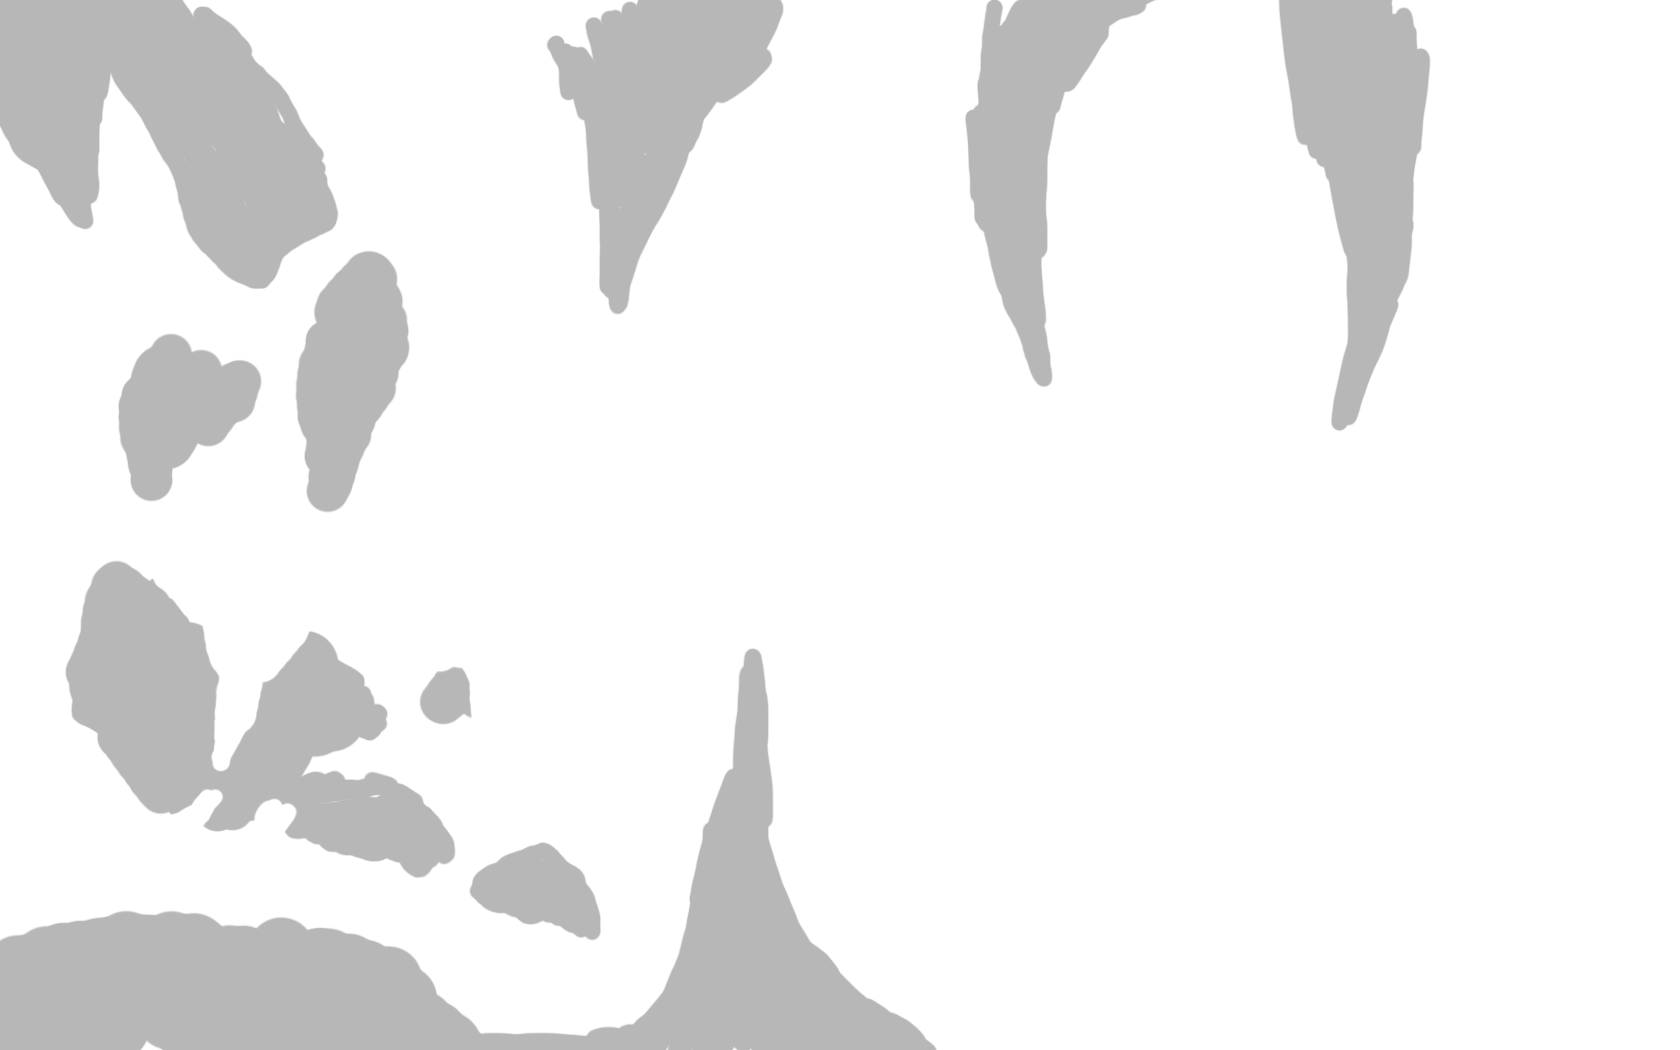
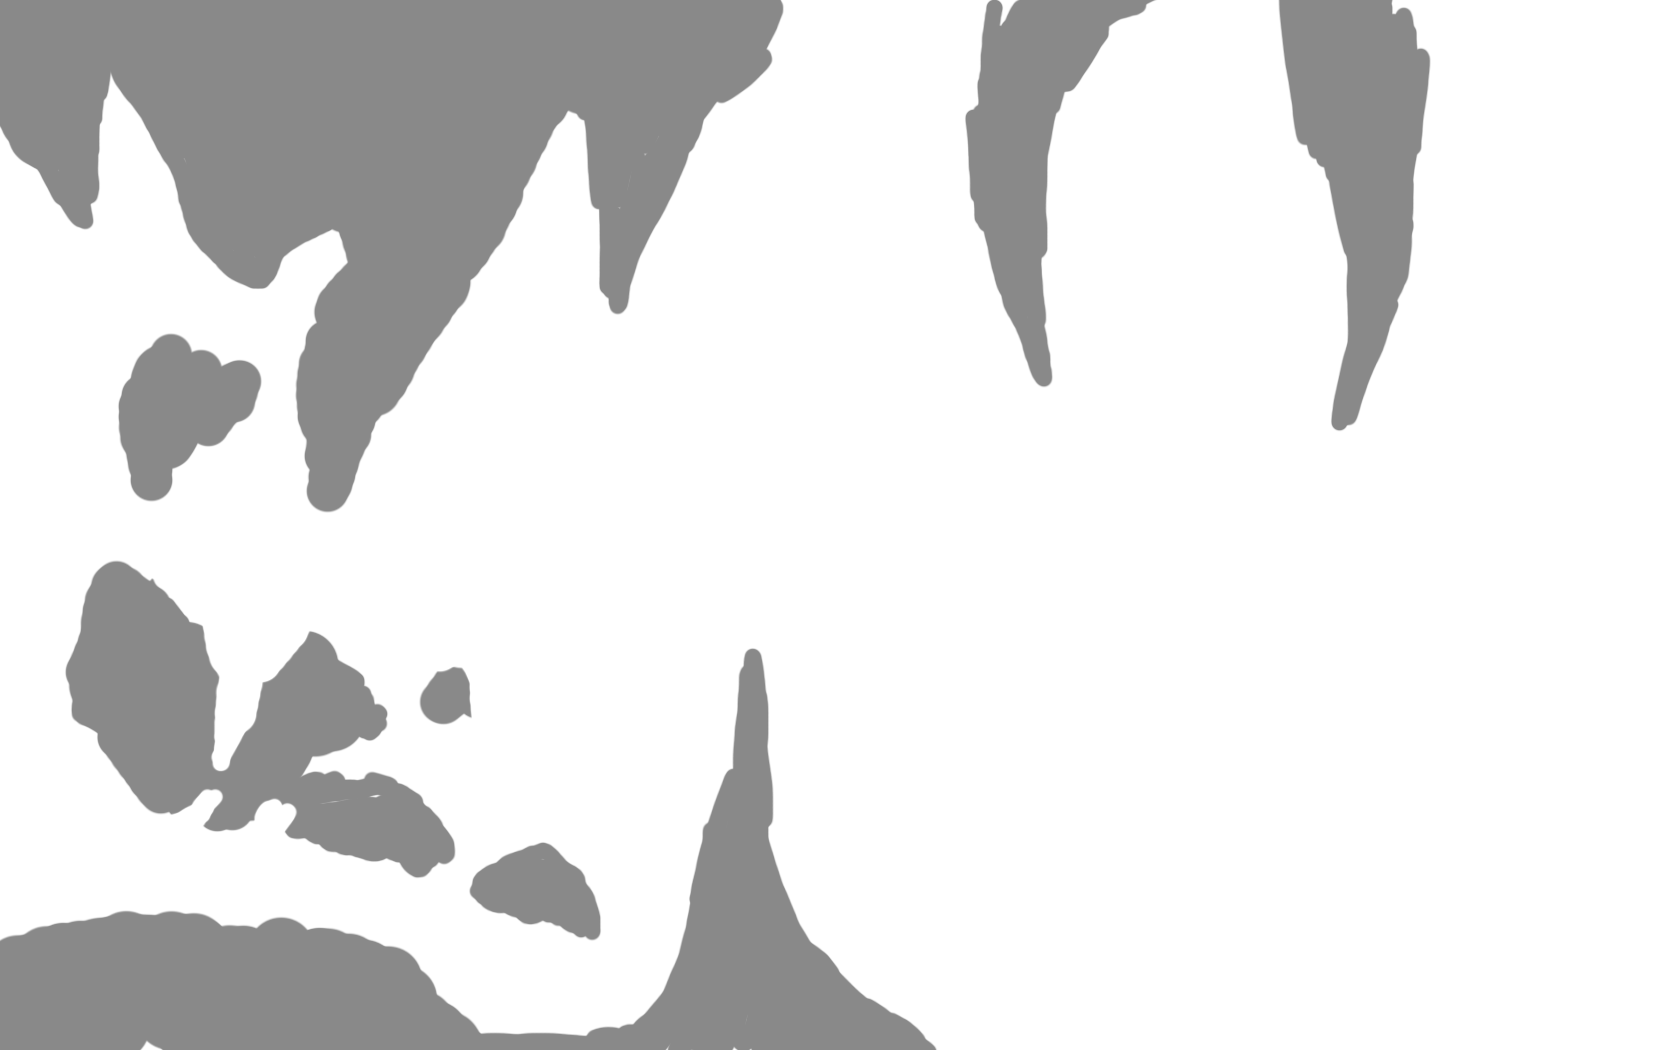
Improved rendering.

diff --git a/Loderpit/Loderpit/EntityFactory.cs b/Loderpit/Loderpit/EntityFactory.cs
@@ -853,7 +853,7 @@ namespace Loderpit
             {
                 body.CollisionCategories = (ushort)CollisionCategory.Terrain;
                 EntityManager.addComponent(entityId, new GroundBodyComponent(entityId, body));
-                EntityManager.addComponent(entityId, createColorPrimitiveRenderComponent(entityId, body, new Color(64, 37, 10, 255)));
+                EntityManager.addComponent(entityId, createColorPrimitiveRenderComponent(entityId, body, new Color(180, 180, 180, 255)));
             }
 
             // Ceiling component
@@ -861,7 +861,7 @@ namespace Loderpit
             {
                 body.CollisionCategories = (ushort)CollisionCategory.Terrain;
                 EntityManager.addComponent(entityId, new CeilingComponent(entityId, body));
-                EntityManager.addComponent(entityId, createColorPrimitiveRenderComponent(entityId, body, new Color(64, 37, 10, 255)));
+                EntityManager.addComponent(entityId, createColorPrimitiveRenderComponent(entityId, body, new Color(180, 180, 180, 255)));
             }
 
             // DestructibleObstacle (with Vitals) components
